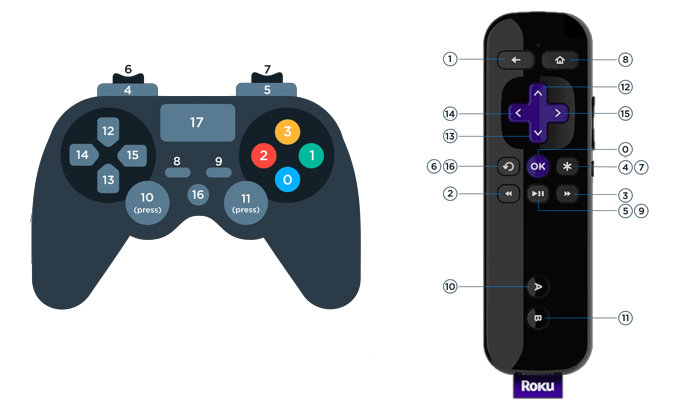
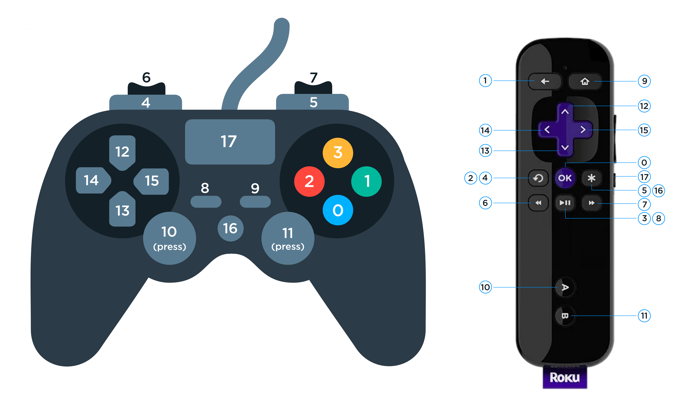
Remapped game pad to Roku remote buttons

diff --git a/src/api/control.ts b/src/api/control.ts
@@ -255,21 +255,21 @@ const axesMap = new Map([
 const buttonsMap = new Map([
     [0, "select"],
     [1, "back"],
-    [2, "rev"],
-    [3, "fwd"],
-    [4, "info"],
-    [5, "play"],
-    [6, "instantreplay"],
-    [7, "info"],
-    [8, "home"],
-    [9, "play"],
+    [2, "instantreplay"],
+    [3, "play"],
+    [4, "instantreplay"],
+    [5, "info"],
+    [6, "rev"],
+    [7, "fwd"],
+    [8, "play"],
+    [9, "home"],
     [10, "a"],
     [11, "b"],
     [12, "up"],
     [13, "down"],
     [14, "left"],
     [15, "right"],
-    [16, "instantreplay"],
+    [16, "info"],
     [17, "volumemute"],
 ]);
 

diff --git a/docs/remote-control.md b/docs/remote-control.md
@@ -13,14 +13,14 @@ The default mapping of the keyboard and game pads to Roku remote control is desc
 | Keyboard    | Game Pad   | Roku Control | Description                                                           |
 |-------------|------------|--------------|-----------------------------------------------------------------------|
 | Esc or Del  |     1      |    Back      | Return to the previous screen, some apps will close at the main menu. |
-| Home or Shift+Esc|   8   |    Home      | Close the currently loaded app.                                       |
+| Home or Shift+Esc|   9   |    Home      | Close the currently loaded app.                                       |
 | Arrow Keys  |Joys & D-Pad|    D-Pad     | Directional controls to navigate on menus and control games.          |
-| Backspace   |   6 or 16  |    Replay    | Instant replay button.                                                |
+| Backspace   |   2 or 4  |    Replay    | Instant replay button.                                                |
 | Enter       |     0      |    OK        | Select button.                                                        |
-| Insert or Ctrl+8|   4 or 7   |    Info      | Information/Settings button                                       |
-| PageUp or Cmd+⬅|     2      |    Rewind    | Reverse scan button.                                              |
-| PageDown or Cmd+➡|     3      | Fast Forward | Forward scan button.                                            |
-| End         |   5 or 9   |  Play/Pause  | Play/Pause button.                                                    |
+| Insert or Ctrl+8|   5 or 16   |    Info      | Information/Settings button                                       |
+| PageUp or Cmd+⬅|     6      |    Rewind    | Reverse scan button.                                              |
+| PageDown or Cmd+➡|     7      | Fast Forward | Forward scan button.                                            |
+| End         |   3 or 8   |  Play/Pause  | Play/Pause button.                                                    |
 | Ctrl+A      |    10      |     A        | A game button.                                                        |
 | Ctrl+Z      |    11      |     B        | B game button.                                                        |
 | F10         |    17      | Volume Mute  | Button to toggle the simulator audio mute on/off.                     |
